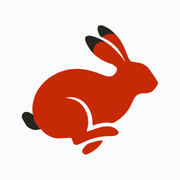
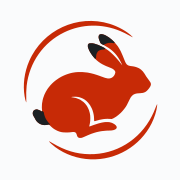
Carry the October edition of the Jackrabbit mark
The project's mark set was rebuilt on 2026-10-10 and the stats site
and the project README already show it; this app still had the August
drawing in its header, footer, favicons and PWA icons.

The inline component now holds the single-colour path from the set's
mark-mono.svg. The seven icon files are rasterised from mark.svg by the
new scripts/make-icons.mjs with the same framing as before: the mark on
the icons' near-white ground, 80% of the canvas, 68% for the maskable
icon so Android's crop keeps it whole. The README says where the mark
comes from and how to regenerate the files when it changes again.

Changed region(s): [[0.1111, 0.1111, 0.8889, 0.8889], [0.7222, 0.1944, 0.75, 0.2222]]

diff --git a/src/ui/JackrabbitMark.tsx b/src/ui/JackrabbitMark.tsx
@@ -1,13 +1,13 @@
 import React from 'react';
 
 /* The Jackrabbit Project mark, inlined so it follows the surrounding text
-   color in either theme. Traced from the project logo; ring and rabbit are
-   base outlines only (stacking the detail shapes into one evenodd path would
-   knock holes where they overlap). */
+   colour wherever it sits. This is the single-colour path from mark-mono.svg
+   in the project's mark set (github.com/jackrabbit-project/jackrabbit,
+   assets/), October 2026 edition. Regenerate from the set, never redraw. */
 export function JackrabbitMark() {
   return (
-    <svg className="jackrabbit-mark" viewBox="42 185 420 438" width="15" height="15" aria-hidden="true" focusable="false">
-      <path fill="currentColor" fillRule="evenodd" d="M 440.8 372.8 C 437.2 366.4 424.8 348.0 419.8 341.0 C 414.7 334.0 413.5 333.5 410.5 331.0 C 407.5 328.5 404.5 327.1 401.8 325.8 C 399.0 324.4 399.0 324.1 394.0 323.0 C 389.0 321.9 376.6 320.4 372.0 319.0 C 367.4 317.6 368.0 316.5 366.5 314.8 C 365.0 313.0 365.0 313.7 362.8 308.5 C 360.5 303.3 355.8 290.4 352.8 283.5 C 349.7 276.6 347.3 272.1 344.5 267.2 C 341.7 262.4 339.0 258.5 335.8 254.5 C 332.5 250.5 328.7 246.5 325.2 243.2 C 321.8 240.0 318.6 237.2 315.2 234.8 C 311.9 232.2 308.5 230.0 305.2 228.2 C 302.0 226.5 298.5 224.8 295.5 224.0 C 292.5 223.2 289.1 223.0 287.0 223.2 C 284.9 223.5 283.9 224.2 283.0 225.8 C 282.1 227.3 281.5 230.4 281.5 232.8 C 281.5 235.1 282.0 236.9 283.0 239.8 C 284.0 242.6 286.1 247.9 287.2 250.0 C 288.4 252.1 285.5 250.0 289.8 252.5 C 294.0 255.0 305.6 260.2 312.5 265.0 C 319.4 269.8 325.9 275.2 331.2 281.0 C 336.6 286.8 341.0 293.3 344.8 299.5 C 348.5 305.7 352.9 315.8 354.0 318.0 C 353.9 318.0 354.0 319.5 352.8 318.0 C 351.5 316.5 350.0 313.3 346.8 309.2 C 343.5 305.2 338.2 298.8 333.5 293.8 C 328.8 288.7 323.0 283.0 318.5 279.0 C 314.0 275.0 310.6 272.6 306.8 270.0 C 302.9 267.4 300.4 265.8 295.5 263.2 C 290.6 260.8 283.0 257.0 277.5 255.0 C 272.0 253.0 266.6 251.7 262.8 251.0 C 258.9 250.3 256.5 250.7 254.5 251.0 C 252.5 251.3 251.5 252.2 250.5 253.0 C 249.5 253.8 249.0 254.1 248.8 255.8 C 248.5 257.4 248.5 260.4 249.0 263.0 C 249.5 265.6 250.3 267.8 252.0 271.2 C 253.7 274.7 256.4 279.6 259.2 283.8 C 262.1 287.9 266.4 293.2 269.0 296.2 C 271.6 299.3 271.4 299.4 275.0 302.2 C 278.6 305.1 285.1 310.2 290.5 313.5 C 295.9 316.8 302.3 319.5 307.5 321.8 C 312.7 324.0 317.6 324.9 321.5 327.0 C 325.4 329.1 329.1 332.5 331.0 334.2 C 332.9 336.0 332.5 336.7 332.8 337.8 C 333.0 338.8 333.0 339.3 332.8 340.8 C 332.5 342.2 331.9 344.4 331.0 346.2 C 330.1 348.1 329.2 350.0 327.5 351.8 C 325.8 353.5 323.0 355.8 320.8 357.0 C 318.5 358.2 315.8 358.5 314.0 358.8 C 312.2 359.0 312.0 359.1 309.8 358.8 C 307.5 358.4 305.4 358.4 300.5 356.8 C 295.6 355.1 287.0 351.3 280.2 349.0 C 273.5 346.7 265.9 344.5 260.0 343.0 C 254.1 341.5 249.9 340.7 244.8 340.0 C 239.6 339.3 234.1 338.9 229.0 338.8 C 223.9 338.6 219.0 338.9 214.2 339.2 C 209.5 339.6 205.5 340.0 200.8 341.0 C 196.0 342.0 190.2 343.8 185.8 345.2 C 181.3 346.8 178.7 347.7 174.0 350.0 C 169.3 352.3 162.2 356.2 157.8 359.0 C 153.3 361.8 150.9 363.7 147.2 366.8 C 143.6 369.8 139.6 373.2 135.8 377.5 C 131.9 381.8 127.3 387.5 124.0 392.5 C 120.7 397.5 118.3 402.0 116.0 407.8 C 113.7 413.5 111.3 420.6 110.0 426.8 C 108.7 432.9 108.1 439.3 108.0 444.8 C 107.9 450.2 109.2 456.7 109.2 459.2 C 109.3 461.8 108.6 459.9 108.5 460.0 C 107.5 459.4 102.2 456.1 99.8 455.0 C 97.3 453.9 96.1 453.4 94.0 453.2 C 91.9 453.1 88.9 453.6 87.2 454.0 C 85.6 454.4 85.3 454.7 84.2 455.8 C 83.2 456.8 81.7 458.8 81.0 460.2 C 80.3 461.7 80.2 462.7 80.2 464.2 C 80.2 465.8 78.9 465.5 81.0 469.8 C 83.1 474.0 90.1 485.8 93.0 490.0 C 95.9 494.2 95.6 493.1 98.2 494.8 C 100.9 496.4 106.0 498.8 109.0 499.8 C 112.0 500.8 113.0 500.9 116.5 500.8 C 120.0 500.6 126.2 498.0 129.8 499.0 C 133.3 500.0 134.9 504.3 137.8 506.8 C 140.6 509.2 143.8 511.8 147.0 513.8 C 150.2 515.8 153.7 517.4 156.8 518.8 C 159.8 520.1 161.8 521.0 165.2 521.8 C 168.7 522.5 170.3 523.2 177.5 523.2 C 184.7 523.3 202.6 521.6 208.5 522.0 C 214.4 522.4 211.6 523.1 213.0 525.5 C 214.4 527.9 215.5 533.9 217.0 536.2 C 218.5 538.6 219.7 539.2 221.8 539.8 C 223.8 540.3 223.1 541.9 229.5 539.8 C 235.9 537.6 252.4 529.7 260.0 526.8 C 267.6 523.8 270.0 523.3 275.0 522.0 C 280.0 520.7 284.3 519.8 290.0 519.0 C 295.7 518.2 304.0 517.5 309.0 517.2 C 314.0 517.0 316.8 517.5 320.0 517.2 C 323.2 517.0 326.0 516.4 328.2 515.8 C 330.5 515.1 332.0 514.3 333.2 513.5 C 334.5 512.7 335.2 512.2 335.8 511.0 C 336.3 509.8 336.8 507.7 336.8 506.5 C 336.7 505.3 337.0 505.3 335.5 503.8 C 334.0 502.2 330.3 498.6 328.0 497.0 C 325.7 495.4 324.2 494.9 321.8 494.0 C 319.3 493.1 317.0 492.1 313.5 491.8 C 310.0 491.4 305.3 491.4 301.0 491.8 C 296.7 492.1 295.8 491.7 287.8 494.0 C 279.8 496.3 257.1 504.2 253.0 505.5 C 252.9 505.3 251.8 506.9 252.2 504.0 C 252.7 501.1 255.2 493.4 255.8 488.2 C 256.3 483.1 256.2 478.2 255.8 473.2 C 255.3 468.3 254.7 463.8 253.0 458.8 C 251.3 453.7 248.7 447.4 245.8 442.8 C 242.8 438.1 238.5 433.7 235.5 430.8 C 232.5 427.8 231.2 427.0 227.8 425.0 C 224.2 423.0 219.5 420.5 214.5 419.0 C 209.5 417.5 200.4 416.4 197.5 415.8 C 194.6 415.1 197.3 415.1 197.2 415.0 C 198.4 414.9 203.8 413.9 206.8 413.8 C 209.8 413.6 212.2 413.6 215.2 414.0 C 218.2 414.4 220.7 414.5 224.8 416.0 C 228.8 417.5 235.2 420.1 239.5 423.0 C 243.8 425.9 247.7 430.1 250.8 433.5 C 253.8 436.9 255.7 440.0 257.8 443.5 C 259.8 447.0 261.5 450.5 263.0 454.8 C 264.5 459.0 265.9 463.1 266.8 468.8 C 267.6 474.4 268.1 486.2 268.2 488.5 C 268.5 488.5 267.7 489.4 270.0 488.8 C 272.3 488.1 277.7 485.9 282.2 484.8 C 286.8 483.6 293.3 482.6 297.2 482.0 C 301.2 481.4 301.8 481.2 306.0 481.2 C 310.2 481.2 317.6 483.2 322.8 482.0 C 327.9 480.8 333.0 476.3 336.8 473.8 C 340.5 471.2 342.6 469.4 345.5 466.8 C 348.4 464.1 350.9 462.0 354.2 458.0 C 357.6 454.0 361.8 449.4 365.8 442.8 C 369.7 436.1 375.0 423.6 378.0 418.2 C 381.0 412.9 381.8 412.6 383.5 410.8 C 385.2 408.9 386.7 408.0 388.2 407.0 C 389.8 406.0 391.1 405.5 392.8 405.0 C 394.4 404.5 394.6 404.1 398.2 403.8 C 401.9 403.4 410.2 403.6 414.8 402.8 C 419.3 401.9 422.8 400.2 425.5 398.8 C 428.2 397.2 429.1 396.2 431.2 393.8 C 433.4 391.3 436.9 386.7 438.5 384.2 C 440.1 381.8 440.4 381.2 440.8 379.2 C 441.1 377.3 444.2 379.1 440.8 372.8 Z  M 294.2 529.8 C 293.8 529.7 292.8 528.8 290.0 529.0 C 287.2 529.2 282.1 530.0 277.8 531.0 C 273.4 532.0 267.8 533.6 263.8 535.0 C 259.7 536.4 257.0 536.6 253.5 539.2 C 250.0 541.9 245.1 548.0 243.0 550.8 C 240.9 553.5 241.3 554.0 241.0 555.5 C 240.7 557.0 240.8 558.7 241.0 559.8 C 241.2 560.8 241.0 561.0 242.0 562.0 C 243.0 563.0 245.4 565.1 247.2 565.8 C 249.1 566.4 249.9 566.9 253.2 565.8 C 256.6 564.6 263.5 560.9 267.2 558.8 C 271.0 556.6 272.6 555.2 275.5 552.8 C 278.4 550.3 281.9 547.3 284.8 544.2 C 287.6 541.2 291.2 536.7 292.8 534.2 C 294.3 531.8 294.1 530.3 294.2 529.8 Z  M 380.8 242.0 C 377.7 239.8 363.5 228.7 354.2 223.0 C 345.0 217.3 332.5 211.5 325.0 208.0 C 317.5 204.5 314.7 203.8 309.0 202.0 C 303.3 200.2 298.7 198.5 291.0 197.0 C 283.3 195.5 271.2 193.7 262.8 193.0 C 254.3 192.3 246.2 192.6 240.2 192.8 C 234.3 192.9 233.9 192.8 227.2 193.8 C 220.6 194.8 208.2 196.9 200.5 198.8 C 192.8 200.6 186.1 203.1 180.8 205.0 C 175.4 206.9 174.6 207.0 168.5 210.0 C 162.4 213.0 150.3 219.5 144.2 223.0 C 138.2 226.5 136.7 227.7 132.2 231.0 C 127.8 234.3 123.5 237.4 117.5 243.0 C 111.5 248.6 102.9 257.1 96.5 264.8 C 90.1 272.4 84.4 280.0 79.0 289.0 C 73.6 298.0 67.5 311.2 64.0 319.0 C 60.5 326.8 60.0 328.8 58.0 335.8 C 56.0 342.7 53.4 353.0 52.0 360.8 C 50.6 368.5 50.1 375.6 49.8 382.2 C 49.4 388.9 49.5 395.2 49.8 400.8 C 50.0 406.3 50.1 409.4 51.0 415.8 C 51.9 422.1 54.2 435.1 55.0 439.0 C 55.8 442.9 55.7 439.2 55.8 439.2 C 55.6 438.0 54.9 433.9 54.8 428.5 C 54.6 423.1 54.2 415.1 54.8 407.0 C 55.3 398.9 56.0 389.8 58.0 379.8 C 60.0 369.7 63.6 356.5 67.0 346.8 C 70.4 337.0 74.8 328.2 78.2 321.0 C 81.8 313.8 85.1 308.3 88.0 303.5 C 90.9 298.7 91.5 297.5 95.8 292.0 C 100.0 286.5 108.5 275.8 113.2 270.2 C 118.0 264.8 119.9 263.2 124.5 259.0 C 129.1 254.8 135.0 249.5 141.0 245.0 C 147.0 240.5 153.2 236.2 160.2 232.0 C 167.3 227.8 175.4 223.2 183.5 219.8 C 191.6 216.2 200.0 213.5 209.0 211.0 C 218.0 208.5 228.1 206.2 237.8 205.0 C 247.4 203.8 257.0 203.4 267.0 203.8 C 277.0 204.1 287.5 205.2 297.5 207.0 C 307.5 208.8 317.5 211.4 327.2 214.8 C 337.0 218.1 347.1 222.5 356.0 227.0 C 364.9 231.5 377.9 240.2 380.8 242.0 Z  M 453.8 448.5 C 452.8 451.1 449.2 463.0 446.0 470.5 C 442.8 478.0 439.1 485.7 434.8 493.2 C 430.4 500.8 425.0 508.8 419.8 515.8 C 414.5 522.7 409.0 529.0 403.2 535.0 C 397.5 541.0 392.4 546.0 385.0 552.0 C 377.6 558.0 367.3 565.4 358.8 570.8 C 350.2 576.1 341.1 580.5 333.5 584.0 C 325.9 587.5 319.6 589.6 313.2 591.8 C 306.9 593.9 302.5 595.2 295.2 596.8 C 288.0 598.2 277.7 600.0 270.0 600.8 C 262.3 601.5 257.6 601.8 249.0 601.5 C 240.4 601.2 227.6 600.2 218.2 598.8 C 208.9 597.3 200.6 595.0 192.8 592.8 C 184.9 590.5 178.4 588.2 171.0 585.0 C 163.6 581.8 155.8 578.0 148.5 573.8 C 141.2 569.5 129.5 561.2 127.0 559.5 C 129.6 561.6 142.0 572.4 149.5 577.8 C 157.0 583.1 163.9 587.3 172.0 591.5 C 180.1 595.7 189.5 599.7 198.0 602.8 C 206.5 605.8 213.8 607.9 223.0 609.8 C 232.2 611.6 245.1 613.1 253.5 613.8 C 261.9 614.4 265.0 614.4 273.2 613.8 C 281.5 613.1 295.2 611.2 303.2 609.8 C 311.3 608.2 316.3 606.4 321.8 604.8 C 327.2 603.1 330.5 602.0 335.8 599.8 C 341.0 597.5 346.4 595.2 353.0 591.5 C 359.6 587.8 368.8 582.4 375.5 577.8 C 382.2 573.1 386.9 569.3 393.0 563.5 C 399.1 557.7 406.3 550.3 412.2 543.0 C 418.2 535.7 424.0 527.6 428.8 519.8 C 433.5 511.9 437.4 503.6 440.8 495.8 C 444.1 487.9 446.7 479.5 448.8 472.8 C 450.8 466.0 452.2 459.3 453.0 455.2 C 453.8 451.2 453.7 449.3 453.8 448.5 Z " />
+    <svg className="jackrabbit-mark" viewBox="40 36 424 440" width="15" height="15" aria-hidden="true" focusable="false">
+      <path fill="currentColor" fillRule="evenodd" d="M252.12 467.83C212.79 466.27 174.08 452.83 144.12 430.31C135.87 424.11 127.74 416.69 125.63 413.43C124.53 411.72 125.57 412.21 134.89 417.76C174.01 441.06 208.38 451.48 248.38 452.17C329.10 453.55 402.31 408.94 439.42 335.75C443.78 327.15 446.62 320.69 451.49 308.25C455.76 297.32 456.26 296.86 455.49 304.54C453.96 319.88 447.44 340.64 438.62 358.26C403.86 427.67 330.23 470.93 252.12 467.83ZM217.25 402.27C213.76 401.20 211.55 398.61 210.52 394.38C208.81 387.29 206.32 384.63 201.14 384.32C198.70 384.17 194.16 384.55 190.88 385.17C186.47 386.00 170.18 385.95 165.88 385.09C164.78 384.87 163.20 384.61 162.38 384.51C160.95 384.33 159.70 383.99 156.88 383.00C154.96 382.33 151.49 380.99 151.03 380.75C150.81 380.63 149.44 379.95 148.00 379.25C140.68 375.67 136.02 372.23 128.60 364.95L125.07 361.48L123.97 361.65C123.37 361.75 122.59 361.93 122.25 362.06C119.29 363.16 110.47 363.51 106.33 362.68C95.76 360.56 86.89 353.48 82.61 343.75C82.10 342.58 80.87 340.39 79.88 338.88C75.81 332.64 74.83 328.99 75.86 324.05C77.17 317.83 83.81 313.98 90.34 315.64C93.73 316.51 101.70 320.18 103.17 321.55C104.06 322.38 104.46 322.01 104.22 320.59C103.28 314.96 103.00 305.79 103.63 301.12C103.83 299.61 104.00 297.59 104.01 296.62C104.01 295.42 104.17 294.56 104.50 293.88C104.79 293.28 104.99 292.33 104.99 291.53C105.00 290.79 105.22 289.33 105.48 288.28C105.75 287.23 106.21 285.31 106.50 284.00C106.79 282.69 107.20 281.23 107.40 280.75C107.59 280.27 107.91 279.31 108.11 278.62C108.61 276.83 109.46 274.48 109.72 274.15C109.84 274.00 110.03 273.48 110.13 273.01C110.23 272.53 110.41 271.97 110.52 271.76C110.64 271.55 111.09 270.53 111.52 269.50C112.41 267.40 114.14 263.83 115.29 261.75C117.23 258.23 119.44 254.54 120.22 253.51C120.70 252.89 121.38 251.91 121.75 251.33C122.13 250.74 122.79 249.84 123.23 249.32C123.68 248.80 124.57 247.68 125.21 246.83C130.68 239.57 137.73 232.63 146.12 226.23C148.95 224.09 154.84 220.00 155.11 220.00C155.18 220.00 156.45 219.23 157.93 218.28C164.06 214.38 175.71 209.17 183.88 206.69C184.56 206.48 185.97 206.06 187.00 205.75C188.03 205.44 189.38 205.03 190.00 204.83C190.62 204.62 191.99 204.31 193.05 204.12C194.11 203.93 195.20 203.66 195.47 203.52C195.74 203.37 197.02 203.14 198.30 203.00C199.58 202.87 201.02 202.65 201.50 202.52C205.45 201.44 220.62 200.71 227.76 201.26C236.28 201.90 240.51 202.31 242.08 202.64C243.02 202.84 244.12 203.00 244.52 203.00C244.93 203.00 245.90 203.22 246.69 203.50C247.47 203.77 248.51 204.00 248.99 204.00C249.48 204.00 250.66 204.22 251.63 204.50C252.59 204.78 253.71 205.00 254.12 205.01C254.54 205.01 255.32 205.23 255.88 205.50C256.43 205.77 257.24 205.99 257.68 205.99C258.12 206.00 258.96 206.16 259.55 206.36C260.14 206.56 261.30 206.89 262.12 207.09C264.30 207.63 269.25 209.14 270.26 209.58C270.73 209.78 272.14 210.25 273.38 210.62C274.61 210.99 275.85 211.41 276.12 211.56C276.39 211.71 277.12 211.97 277.74 212.14C278.37 212.32 279.49 212.70 280.25 213.01C281.01 213.31 282.07 213.71 282.62 213.91C283.18 214.10 283.85 214.37 284.12 214.50C284.64 214.74 285.97 215.20 289.88 216.50C291.11 216.92 292.33 217.37 292.57 217.51C294.00 218.33 299.01 219.66 304.30 220.63C308.77 221.46 314.82 220.17 318.39 217.63C323.22 214.20 325.76 210.53 327.35 204.70C328.14 201.80 328.15 201.43 327.46 199.44C326.18 195.70 320.77 191.22 314.88 189.00C314.05 188.69 312.31 187.99 311.00 187.44C309.69 186.90 307.95 186.17 307.12 185.83C306.30 185.49 305.27 185.05 304.84 184.85C304.40 184.66 303.90 184.50 303.71 184.50C303.52 184.50 302.95 184.27 302.43 184.00C301.92 183.72 301.38 183.50 301.22 183.50C301.07 183.50 299.86 182.99 298.53 182.36C297.21 181.73 295.79 181.06 295.38 180.87C285.62 176.40 279.16 172.29 271.25 165.51C265.23 160.34 258.58 152.58 253.99 145.36C252.85 143.58 251.71 141.80 251.44 141.41C249.27 138.26 246.74 132.92 244.98 127.75C243.92 124.67 243.91 124.58 243.89 121.11C243.88 117.24 243.92 117.10 245.65 115.37C247.54 113.47 248.79 113.13 253.88 113.13C258.58 113.13 259.08 113.20 264.88 114.68C268.21 115.53 272.09 116.83 275.88 118.37C278.80 119.55 281.23 120.67 287.50 123.70C290.44 125.12 294.08 127.10 294.75 127.63C294.96 127.80 295.74 128.27 296.50 128.68C298.10 129.54 300.67 131.21 303.04 132.92C303.96 133.58 305.65 134.80 306.79 135.62C315.32 141.73 327.77 154.16 338.85 167.62C344.24 174.17 345.56 175.85 346.95 177.92C348.40 180.09 349.00 180.79 349.00 180.33C349.00 179.97 347.51 176.46 346.75 175.02C346.35 174.25 345.58 172.72 345.04 171.62C342.65 166.69 340.11 162.23 336.70 156.97C326.78 141.65 312.42 129.04 294.27 119.69C292.68 118.87 291.09 118.04 290.75 117.85C290.41 117.67 288.94 116.96 287.50 116.29C284.52 114.90 282.74 113.29 281.76 111.11C280.66 108.64 279.08 104.58 278.51 102.75C278.19 101.72 277.78 100.42 277.60 99.88C276.20 95.69 276.53 90.32 278.33 87.95C282.37 82.66 294.39 85.54 308.12 95.10C313.14 98.59 322.24 106.46 324.40 109.18C324.92 109.84 326.26 111.33 327.38 112.50C329.38 114.59 333.55 119.68 335.27 122.12C337.50 125.28 342.69 134.15 344.43 137.75C347.21 143.54 350.50 150.99 350.50 151.51C350.50 151.67 350.66 152.10 350.86 152.46C351.31 153.28 352.16 155.35 353.38 158.62C353.90 160.00 354.71 162.03 355.18 163.12C355.66 164.22 356.44 166.14 356.92 167.38C357.40 168.61 357.89 169.74 357.99 169.88C358.10 170.01 358.27 170.41 358.37 170.75C358.76 172.08 361.69 176.65 363.03 178.01C365.22 180.24 368.15 181.66 371.75 182.23C372.64 182.38 373.77 182.61 374.25 182.75C374.73 182.89 375.61 183.00 376.21 183.00C376.80 183.00 378.55 183.21 380.08 183.48C381.62 183.74 383.49 184.03 384.23 184.12C384.98 184.21 385.80 184.39 386.05 184.53C386.31 184.67 387.16 184.88 387.93 185.01C388.70 185.13 389.91 185.46 390.61 185.73C391.30 185.99 392.80 186.50 393.94 186.86C402.62 189.58 410.65 196.15 416.55 205.38C417.17 206.35 418.62 208.68 419.77 210.58C420.93 212.47 422.17 214.50 422.52 215.08C423.32 216.38 429.20 224.47 431.10 226.88C434.51 231.20 436.15 234.14 436.51 236.61C437.11 240.72 435.56 244.69 430.95 250.82C426.11 257.25 421.89 261.12 417.88 262.81C414.66 264.17 413.76 264.50 413.26 264.50C412.97 264.50 411.87 264.72 410.81 264.98C409.56 265.29 407.10 265.56 403.88 265.73C393.89 266.28 392.38 266.49 387.90 267.92C381.11 270.08 375.35 276.06 371.50 284.96C370.54 287.17 365.37 297.62 363.86 300.38C363.27 301.48 362.60 302.71 362.40 303.12C359.68 308.51 351.02 319.50 344.47 325.88C340.95 329.30 333.55 335.43 331.18 336.89C330.52 337.29 329.51 337.97 328.93 338.39C325.61 340.79 318.56 344.46 316.93 344.64C315.56 344.79 307.02 344.39 304.25 344.04C303.21 343.91 301.63 343.96 299.88 344.16C298.36 344.34 296.31 344.49 295.31 344.49C294.31 344.50 292.45 344.71 291.18 344.98C289.91 345.24 287.98 345.59 286.88 345.75C284.86 346.06 281.38 346.72 278.62 347.33C277.80 347.52 276.76 347.85 276.32 348.08C275.88 348.31 275.32 348.50 275.07 348.50C274.83 348.50 273.78 348.73 272.75 349.01C269.01 350.04 267.36 350.52 266.62 350.80C266.21 350.95 265.35 351.12 264.71 351.19C262.98 351.35 262.96 351.26 262.88 343.90C262.83 339.02 262.73 337.29 262.41 336.13C262.18 335.32 262.00 334.02 262.00 333.25C262.00 332.48 261.77 331.22 261.50 330.44C261.23 329.65 261.00 328.64 261.00 328.19C261.01 327.74 260.79 326.64 260.52 325.75C260.25 324.86 259.68 322.94 259.24 321.50C258.81 320.06 258.31 318.31 258.13 317.62C257.83 316.46 257.46 315.57 255.82 312.00C252.54 304.84 249.31 299.87 244.41 294.44C237.74 287.06 231.25 282.65 222.88 279.79C221.64 279.37 219.84 278.74 218.88 278.39C214.25 276.70 203.69 276.00 196.49 276.89C192.86 277.34 192.38 277.59 194.41 278.00C195.22 278.16 196.32 278.39 196.88 278.50C197.43 278.62 198.55 278.79 199.38 278.88C201.29 279.08 206.36 280.16 207.50 280.60C207.98 280.79 208.82 281.05 209.38 281.19C211.46 281.72 214.47 282.87 217.14 284.16C218.39 284.76 219.48 285.25 219.57 285.25C219.65 285.25 220.43 285.66 221.30 286.15C223.98 287.69 224.11 287.79 230.70 292.83C233.37 294.87 237.77 299.92 240.78 304.40C242.64 307.17 246.27 314.56 247.36 317.81C248.59 321.48 249.50 324.65 249.50 325.30C249.50 325.60 249.71 326.52 249.98 327.36C251.83 333.28 251.88 350.97 250.07 358.12C249.86 358.95 249.60 360.19 249.49 360.88C249.39 361.56 249.05 362.97 248.75 364.00C247.63 367.81 247.73 368.01 250.22 367.08C251.13 366.74 252.38 366.32 253.01 366.14C253.63 365.97 254.36 365.70 254.63 365.54C254.90 365.39 256.02 364.97 257.12 364.61C258.23 364.25 259.58 363.74 260.14 363.48C260.70 363.21 261.38 363.00 261.64 363.00C261.91 363.00 263.22 362.55 264.56 362.00C265.90 361.45 267.24 361.00 267.53 361.00C267.81 361.00 268.40 360.84 268.84 360.64C270.20 360.01 271.82 359.46 273.40 359.11C274.23 358.92 275.24 358.59 275.65 358.38C276.05 358.17 276.69 358.00 277.07 358.00C277.46 358.00 278.08 357.84 278.45 357.65C279.06 357.34 281.44 356.73 286.50 355.61C287.39 355.41 289.08 355.13 290.25 354.99C291.42 354.85 292.71 354.62 293.12 354.48C294.33 354.07 300.55 353.76 304.88 353.90C308.87 354.03 310.28 354.27 314.50 355.52C315.39 355.79 316.22 356.01 316.34 356.00C317.04 355.99 322.97 358.97 324.95 360.32C337.41 368.89 333.53 377.59 316.33 379.63C314.71 379.83 311.07 379.99 308.25 379.99C302.51 379.99 297.78 380.31 292.70 381.02C290.81 381.28 288.61 381.50 287.81 381.50C287.01 381.50 285.74 381.66 284.99 381.86C284.24 382.05 282.89 382.28 282.00 382.38C281.11 382.47 279.59 382.75 278.62 383.00C275.38 383.86 273.63 384.24 272.25 384.40C271.49 384.49 270.37 384.76 269.75 385.01C269.13 385.26 268.22 385.53 267.73 385.61C267.24 385.69 266.00 386.04 264.98 386.40C263.96 386.75 262.56 387.20 261.88 387.39C261.19 387.59 260.40 387.85 260.12 387.97C259.85 388.09 258.61 388.50 257.38 388.87C256.14 389.24 254.79 389.70 254.38 389.88C252.98 390.50 250.63 391.45 249.25 391.97C245.94 393.20 244.52 393.79 242.88 394.61C241.91 395.10 241.04 395.49 240.95 395.50C240.85 395.50 239.95 395.88 238.95 396.35C237.94 396.82 236.39 397.51 235.50 397.89C234.61 398.27 233.31 398.83 232.62 399.13C231.94 399.44 230.96 399.87 230.46 400.10C229.96 400.32 229.38 400.50 229.16 400.50C228.95 400.50 228.71 400.61 228.63 400.74C228.55 400.88 227.95 401.15 227.30 401.36C226.65 401.56 225.68 401.89 225.12 402.10C224.05 402.51 218.42 402.62 217.25 402.27ZM55.19 293.11C53.91 290.58 51.87 282.50 50.65 275.12C44.85 240.09 49.86 201.70 64.69 167.55C105.92 72.60 212.22 23.51 310.81 53.90C336.77 61.90 364.68 77.64 378.94 92.32C382.53 96.01 382.11 95.89 371.75 90.14C359.63 83.42 353.11 80.17 343.88 76.26C287.72 52.48 225.35 53.78 171.62 79.85C108.02 110.71 65.10 171.80 56.89 243.12C55.60 254.36 55.16 270.31 55.74 285.17C56.06 293.26 55.96 294.63 55.19 293.11Z" />
     </svg>
   );
 }

diff --git a/README.md b/README.md
@@ -141,6 +141,12 @@ first — big targets for entering results, tables that scroll inside their own 
 for reading. There is no dark theme; the tokens at the top of `src/styles.css` are laid out so one
 can be added by redefining them.
 
+The rabbit is the Jackrabbit Project mark, from the set at
+<https://github.com/jackrabbit-project/jackrabbit> (`assets/`). The header and footer mark is the
+single-colour path from its `mark-mono.svg`; the favicons and PWA icons are rasterised from
+`mark.svg` by `node scripts/make-icons.mjs` (needs `npm i --no-save sharp`). When the mark changes,
+regenerate from the set rather than editing the files.
+
 ### Updating the bundled Grading Guide
 
 ```
